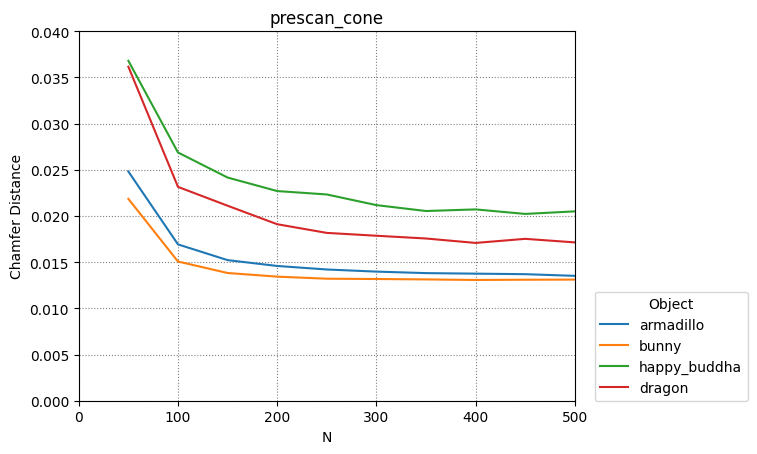
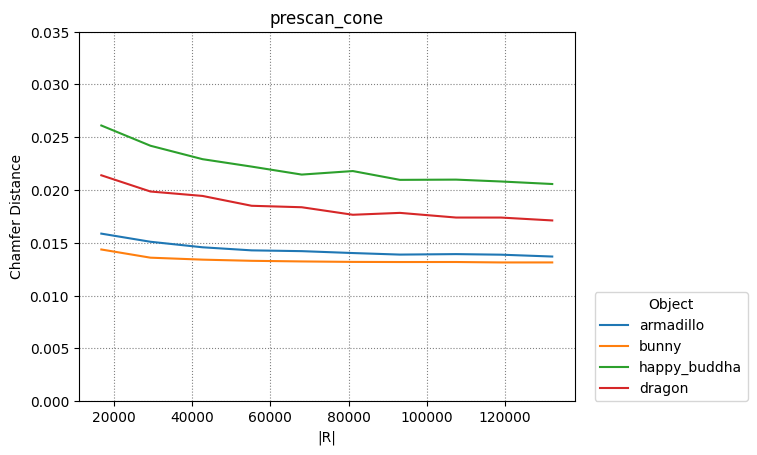
Tweak prescan_cone

diff --git a/ray_field/prescan_cone.py b/ray_field/prescan_cone.py
@@ -9,17 +9,18 @@ from timeit import default_timer as timer
 from numpy import ndarray
 
 class PrescanCone(Algorithm):
-    prescan_n: int = 60
+    prescan_n: int = 64
 
     def surface_reconstruction(model_name: CheckpointName, N: int) -> TriangleMesh:
         model, device = utils.init_model(model_name)
 
         with torch.no_grad():
             origins, dirs = utils.generate_sphere_rays_tensor(PrescanCone.prescan_n, device)
-            intersections = PrescanCone._broad_scan(model, origins, dirs)
+            broad_intersections, broad_normals = PrescanCone._broad_scan(model, origins, dirs)
 
-            origins, dirs = PrescanCone._generate_cone_rays(intersections, N, device)
+            origins, dirs = PrescanCone._generate_cone_rays(broad_intersections, N, device)
             intersections, intersection_normals = PrescanCone._targeted_scan(model, origins, dirs)
+            intersections, intersection_normals = PrescanCone._cat_and_move(intersections, intersection_normals, broad_intersections, broad_normals)
         
         return utils.poisson_surface_reconstruction(intersections, intersection_normals, PrescanCone.poisson_depth)
 
@@ -55,32 +56,41 @@ class PrescanCone(Algorithm):
         
         return hit_rates
 
-    def chamfer(model_name: CheckpointName, N_values: list[int]) -> list[float]:
+    def chamfer(model_name: CheckpointName, N_values: list[int]) -> tuple[list[float], list[int]]:
         model, device = utils.init_model(model_name)
 
-        distances = []
+        distances = np.zeros(len(N_values))
+        R_values = np.zeros(len(N_values), dtype=int)
 
         with torch.no_grad():
             origins, dirs = utils.generate_sphere_rays_tensor(PrescanCone.prescan_n, device)
-            broad_intersections = PrescanCone._broad_scan(model, origins, dirs)
+            broad_intersections, broad_normals = PrescanCone._broad_scan(model, origins, dirs)
 
-            for N in N_values:
+            R_values.fill(dirs.shape[0] * dirs.shape[2])
+
+            for i in range(len(N_values)):
+                N = N_values[i]
                 print(N, end='\t')
 
-                origins, dirs = PrescanCone._generate_cone_rays(broad_intersections, N, device)
+                origins, dirs = PrescanCone._generate_cone_rays(broad_intersections, N, device, '256')
                 intersections, intersection_normals = PrescanCone._targeted_scan(model, origins, dirs)
+                intersections, intersection_normals = PrescanCone._cat_and_move(intersections, intersection_normals, broad_intersections, broad_normals)
+
+                R_values[i] = R_values[i] + (dirs.shape[0] * dirs.shape[2])
         
                 mesh = utils.poisson_surface_reconstruction(intersections, intersection_normals, PrescanCone.poisson_depth)
                 distance = utils.chamfer_distance_to_stanford(model_name, mesh, PrescanCone.dist_samples)
 
-                distances.append(distance)
+                distances[i] = distance
                 print(f'{distance:.6f}')
+
+                del origins, dirs, intersections, intersection_normals, mesh
                 torch.cuda.empty_cache()
         
         del model
         torch.cuda.empty_cache()
 
-        return distances
+        return distances, R_values
 
     def hausdorff(model_name: CheckpointName, N_values: list[int]) -> list[float]:
         model, device = utils.init_model(model_name)
@@ -128,15 +138,16 @@ class PrescanCone(Algorithm):
                     start_time = timer()
 
                     origins, dirs = utils.generate_sphere_rays_tensor(PrescanCone.prescan_n, device)
-                    intersections = PrescanCone._broad_scan(model, origins, dirs)
+                    broad_intersections, broad_normals = PrescanCone._broad_scan(model, origins, dirs)
 
                     if j == 0:
                         R_values[i] = dirs.shape[0] * dirs.shape[2]
 
-                    origins, dirs = PrescanCone._generate_cone_rays(intersections, N, device)
+                    origins, dirs = PrescanCone._generate_cone_rays(broad_intersections, N, device, '256')
                     intersections, intersection_normals = PrescanCone._targeted_scan(model, origins, dirs)
+                    intersections, intersection_normals = PrescanCone._cat_and_move(intersections, intersection_normals, broad_intersections, broad_normals)
 
-                    _ = utils.poisson_surface_reconstruction(intersections, intersection_normals, PrescanCone.poisson_depth)
+                    mesh = utils.poisson_surface_reconstruction(intersections, intersection_normals, PrescanCone.poisson_depth)
 
                     torch.cuda.synchronize()
                     time = timer() - start_time
@@ -146,6 +157,8 @@ class PrescanCone(Algorithm):
 
                     times[i] = times[i] + time
                     print(f'{time:.5f}', end='\t')
+
+                    del origins, dirs, broad_intersections, broad_normals, intersections, intersection_normals, mesh
                     torch.cuda.empty_cache()
                 
                 print()
@@ -218,6 +231,8 @@ class PrescanCone(Algorithm):
         return times / PrescanCone.time_samples
     
     def time_chamfer(model_name: CheckpointName, N_values: list[int]) -> tuple[list[float], list[float], list[int]]:
+        N_values = list(range(100, 701, 100))
+
         model, device = utils.init_model(model_name)
 
         times = np.zeros(len(N_values))
@@ -233,13 +248,14 @@ class PrescanCone(Algorithm):
                     start_time = timer()
 
                     origins, dirs = utils.generate_sphere_rays_tensor(PrescanCone.prescan_n, device)
-                    intersections = PrescanCone._broad_scan(model, origins, dirs)
+                    broad_intersections, broad_normals = PrescanCone._broad_scan(model, origins, dirs)
 
                     if j == 0:
                         R_values[i] = dirs.shape[0] * dirs.shape[2]
 
-                    origins, dirs = PrescanCone._generate_cone_rays(intersections, N, device)
+                    origins, dirs = PrescanCone._generate_cone_rays(broad_intersections, N, device, '128')
                     intersections, intersection_normals = PrescanCone._targeted_scan(model, origins, dirs)
+                    intersections, intersection_normals = PrescanCone._cat_and_move(intersections, intersection_normals, broad_intersections, broad_normals)
 
                     mesh = utils.poisson_surface_reconstruction(intersections, intersection_normals, PrescanCone.poisson_depth)
 
@@ -254,7 +270,7 @@ class PrescanCone(Algorithm):
                     distances[i] = distances[i] + distance
                     print(f'N: {N}\tTime: {time:.5f}\tDistance: {distance:.5f}')
 
-                    del origins, dirs, intersections, intersection_normals, mesh
+                    del origins, dirs, broad_intersections, broad_normals, intersections, intersection_normals, mesh
                     torch.cuda.empty_cache()
                 
                 torch.cuda.empty_cache()
@@ -342,56 +358,68 @@ class PrescanCone(Algorithm):
         Returns:
             torch.Tensor: Intersection points (m, 3)
         """        
-        result = model.forward(dict(origins=origins, dirs=dirs), intersections_only = True)
-        intersections = result[0]
-        is_intersecting = result[1]
+        result = model.forward(dict(origins=origins, dirs=dirs), intersections_only = False)
+
+        intersections = result[2]
+        intersection_normals = result[3]
+        is_intersecting = result[4]
 
         is_intersecting = is_intersecting.flatten()
-        return intersections.flatten(end_dim=2)[is_intersecting]
+        intersections = intersections.flatten(end_dim=2)[is_intersecting]
+        intersection_normals = intersection_normals.flatten(end_dim=2)[is_intersecting]
+
+        return intersections, intersection_normals
 
     @staticmethod
-    def _generate_cone_rays(intersections: torch.Tensor, N: int, device: str) -> tuple[torch.Tensor, torch.Tensor]:
+    def _generate_cone_rays(intersections: torch.Tensor, N: int, device: str, m_type: str = 'linear') -> tuple[torch.Tensor, torch.Tensor]:
         """Generates n origins along the unit sphere, finds the maximum angle for each origin
-        to cover the intersection points, and generates (n-1) random rays within that angle
+        to cover the intersection points, and generates m random rays within that angle
 
         Args:
             intersections (torch.Tensor): The intersection points from the broad scan
             N (int): Number of origins, the resulting n is <= N
             device (str): The device to store tensors in
+            m_type (str): Which sceme to use when calculating m
 
         Returns:
             tuple[torch.Tensor, torch.Tensor]
                 - Ray origins (n, 3)
-                - Ray directions (n, 1, n-1, 3)
+                - Ray directions (n, 1, m, 3)
         """ 
         origins = utils.generate_equidistant_sphere_points_tensor(N, device)
         max_angles = utils.get_max_cone_angles(origins, intersections)
+        max_angles = max_angles.unsqueeze(1)
 
         N = origins.shape[0]
-        M = N - 1
+
+        if m_type == 'linear':
+            M = N - 1
+        else:
+            M = int(m_type)
 
         # Compute basis for origin -> (0, 0, 0)
-        central_dirs = (-origins).to(torch.float32)
-        up = torch.tensor([0.0, 0.0, 1.0], device=device, dtype=torch.float32).expand(N, 3).clone()
+        central_dirs = -origins
+        up = torch.full((N, 3), fill_value=0.0, device=device, dtype=torch.float32)
+        up[:, 2] = 1.0
         mask = torch.abs(central_dirs[:, 2]) >= 0.9
-        up[mask] = torch.tensor([1.0, 0.0, 0.0], device=device, dtype=torch.float32)
+        up[mask] = up.new_tensor([1.0, 0.0, 0.0])
 
         right = torch.cross(central_dirs, up)
-        right = right / torch.norm(right, dim=1, keepdim=True)
+        right /= torch.linalg.norm(right, dim=1, keepdim=True)
         up = torch.cross(right, central_dirs)
 
         # Generate random spherical coordinates within max_angles
         theta = torch.rand(N, M, device=device, dtype=torch.float32) * (2 * torch.pi)
-        cos_beta = torch.rand(N, M, device=device, dtype=torch.float32) * (1 - torch.cos(max_angles)).unsqueeze(1) + torch.cos(max_angles).unsqueeze(1)
-        sin_beta = torch.sqrt(1 - cos_beta**2)
+        cos_beta = torch.rand(N, M, device=device, dtype=torch.float32) * (1 - torch.cos(max_angles)) + torch.cos(max_angles)
+        sin_beta = torch.sqrt(1 - cos_beta**2).unsqueeze(-1)
 
         directions = (
             cos_beta.unsqueeze(-1) * central_dirs.unsqueeze(1) +
-            sin_beta.unsqueeze(-1) * torch.cos(theta).unsqueeze(-1) * right.unsqueeze(1) +
-            sin_beta.unsqueeze(-1) * torch.sin(theta).unsqueeze(-1) * up.unsqueeze(1)
+            sin_beta * torch.cos(theta).unsqueeze(-1) * right.unsqueeze(1) +
+            sin_beta * torch.sin(theta).unsqueeze(-1) * up.unsqueeze(1)
         ).unsqueeze(1)
 
-        return origins.to(torch.float32), directions.to(torch.float32)
+        return origins, directions
     
     @staticmethod
     def _targeted_scan(model: IntersectionFieldAutoDecoderModel, origins: torch.Tensor, dirs: torch.Tensor) -> tuple[ndarray, ndarray]:
@@ -415,7 +443,14 @@ class PrescanCone(Algorithm):
         is_intersecting = result[4]
 
         is_intersecting = is_intersecting.flatten()
-        intersections = intersections.flatten(end_dim=2)[is_intersecting].cpu().detach().numpy()
-        intersection_normals = intersection_normals.flatten(end_dim=2)[is_intersecting].cpu().detach().numpy()
+        intersections = intersections.flatten(end_dim=2)[is_intersecting]
+        intersection_normals = intersection_normals.flatten(end_dim=2)[is_intersecting]
+
+        return intersections, intersection_normals
+    
+    @staticmethod
+    def _cat_and_move(intersections, intersection_normals, broad_intersections, broad_normals) -> tuple[ndarray, ndarray]:
+        intersections = torch.cat((intersections, broad_intersections)).cpu().detach().numpy()
+        intersection_normals = torch.cat((intersection_normals, broad_normals)).cpu().detach().numpy()
 
         return intersections, intersection_normals

diff --git a/ray_field/candidate_sphere.py b/ray_field/candidate_sphere.py
@@ -65,17 +65,18 @@ class CandidateSphere(Algorithm):
         with torch.no_grad():
             origins, dirs = utils.generate_sphere_rays_tensor(CandidateSphere.prescan_n, device)
             broad_intersections, broad_normals, sphere_centers = CandidateSphere._broad_scan(model, origins, dirs)
+            radii, centers = CandidateSphere._generate_candidate_spheres(sphere_centers, device)
+
+            R_values.fill(dirs.shape[0] * dirs.shape[2])
+
+            del sphere_centers
+            torch.cuda.empty_cache()
+
 
             for i in range(len(N_values)):
                 N = N_values[i]
                 print(N, end='\t')
 
-                origins, dirs = utils.generate_sphere_rays_tensor(CandidateSphere.prescan_n, device)
-                broad_intersections, broad_normals, sphere_centers = CandidateSphere._broad_scan(model, origins, dirs)
-
-                R_values[i] = dirs.shape[0] * dirs.shape[2]
-
-                radii, centers = CandidateSphere._generate_candidate_spheres(sphere_centers, device)
                 origins, dirs = CandidateSphere._generate_candidate_rays(radii, centers, N, device, '16')
                 intersections, intersection_normals = CandidateSphere._targeted_scan(model, origins, dirs)
                 intersections, intersection_normals = CandidateSphere._cat_and_move(intersections, intersection_normals, broad_intersections, broad_normals)
